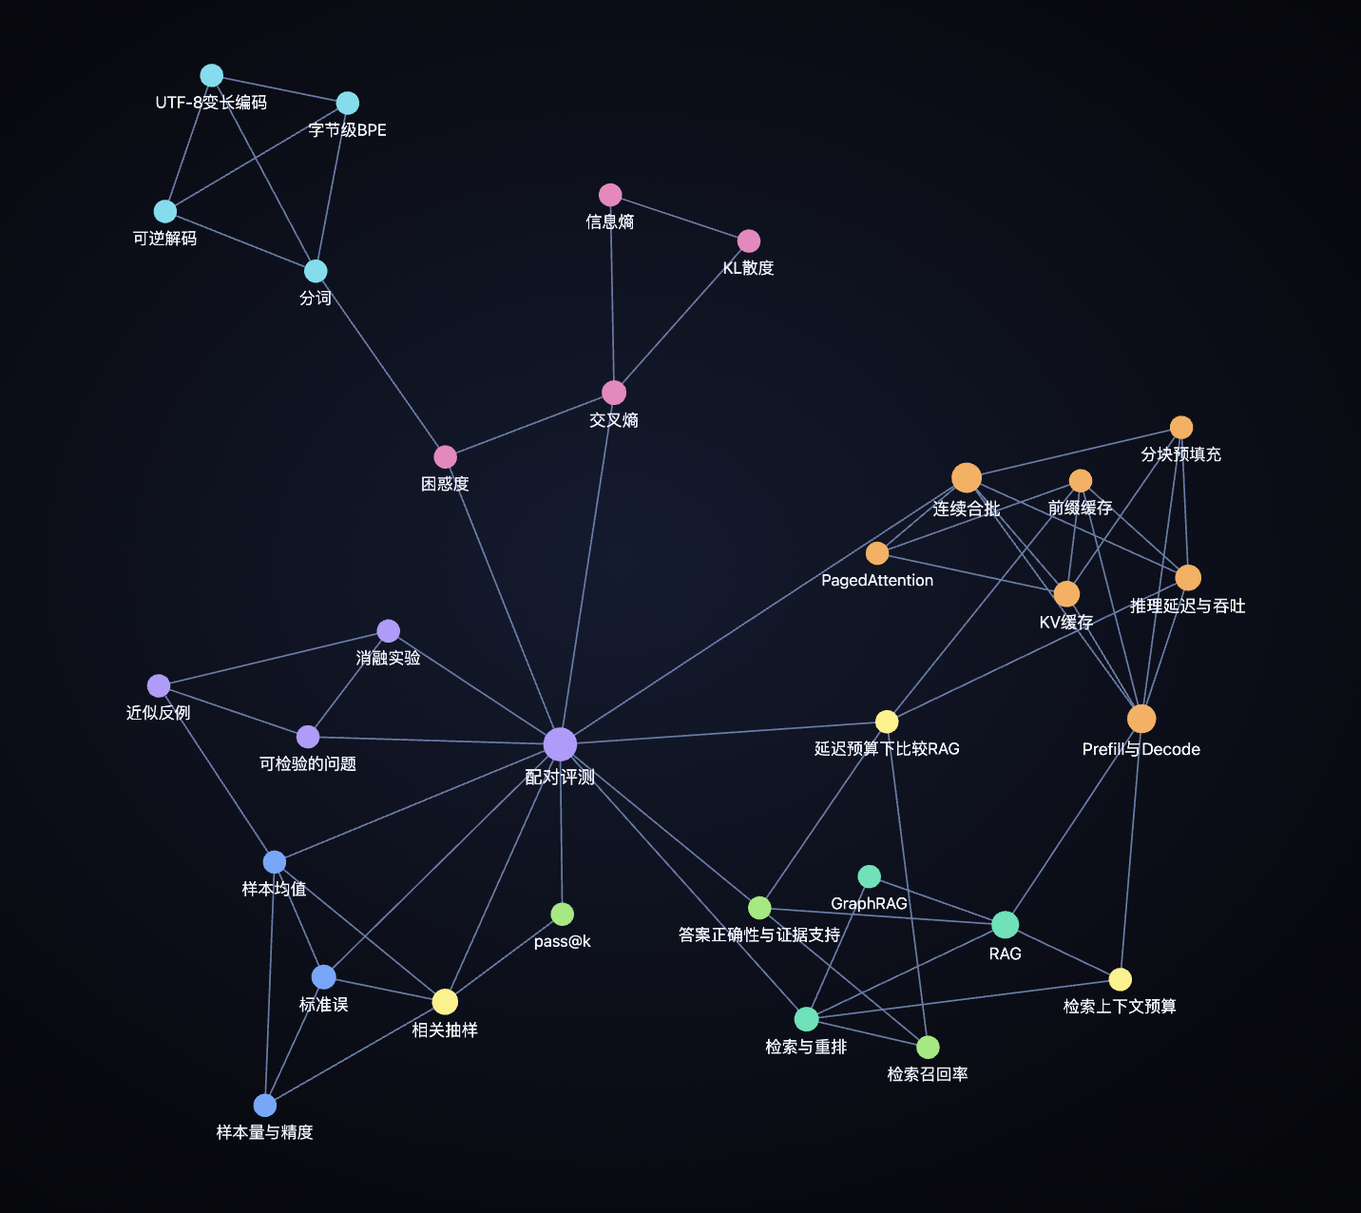
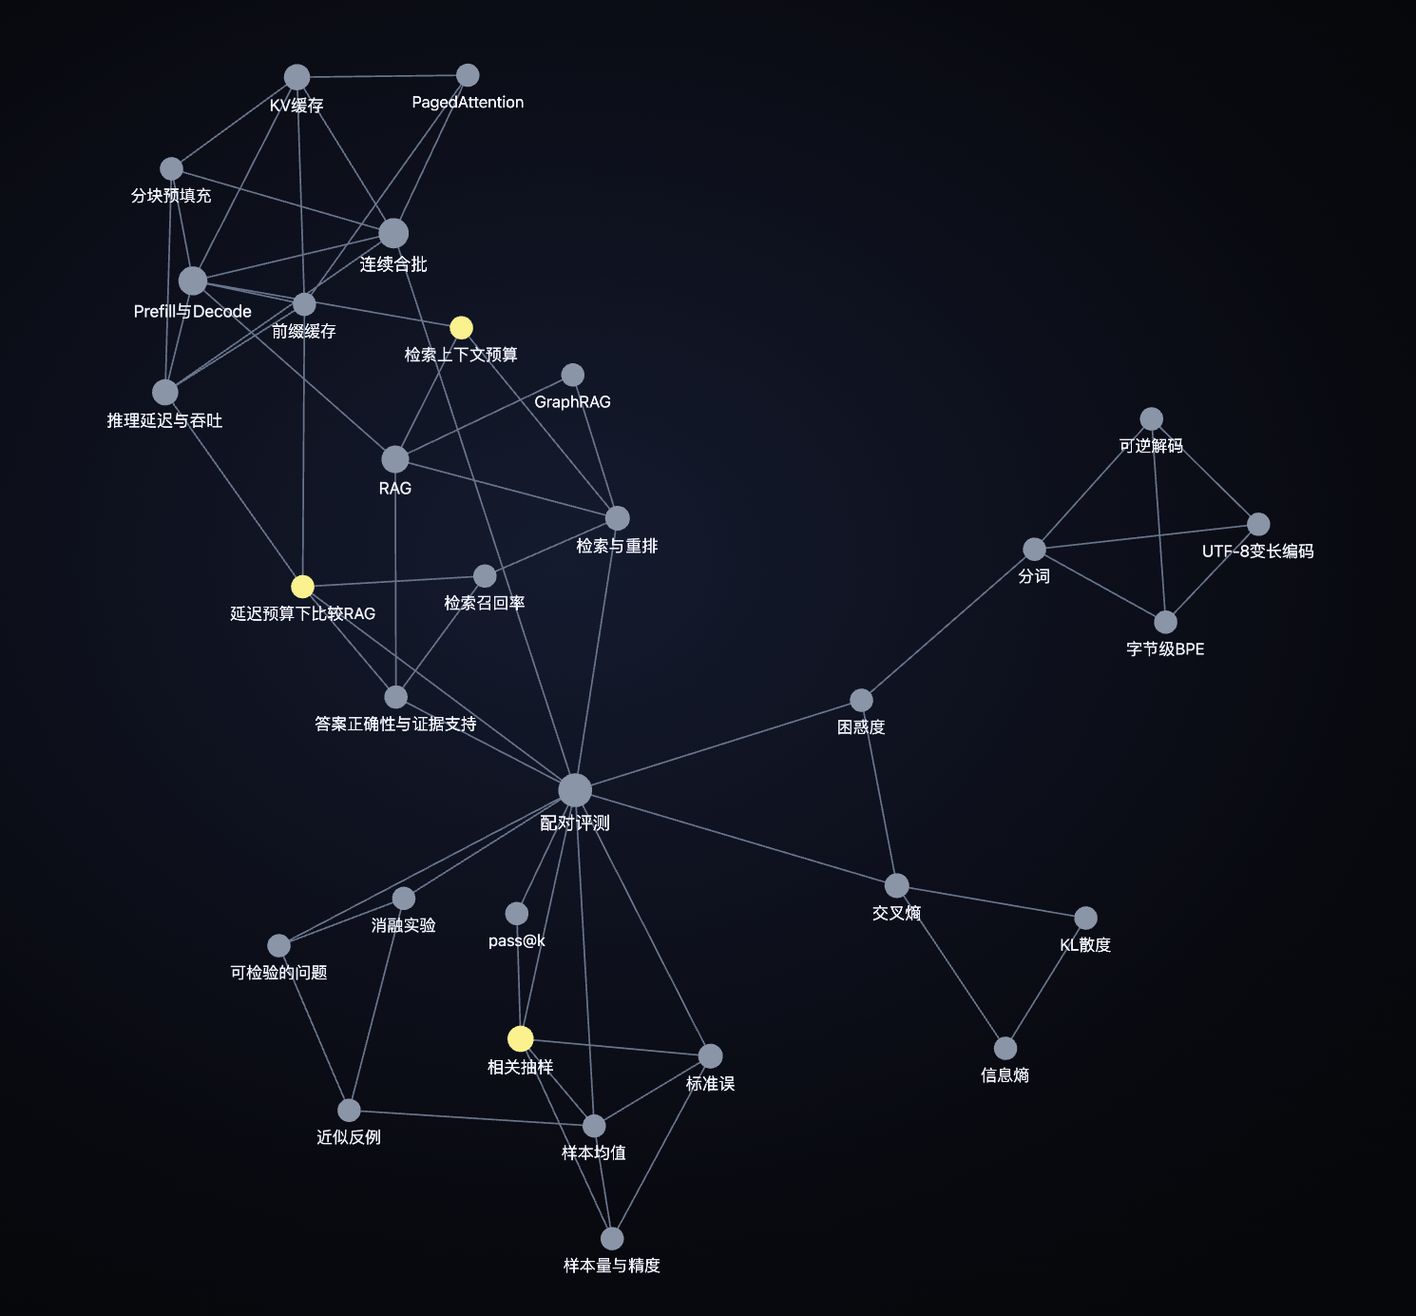
Simplify the README and fix first-use edge cases

diff --git a/assets/demo/obsidian-graph.css b/assets/demo/obsidian-graph.css
@@ -3,11 +3,11 @@
 }
 
 .graph-view.color-line {
-  color: #657daa;
+  color: #65758e;
 }
 
 .graph-view.color-fill-focused {
-  color: #fff098;
+  color: #d2dbe8;
 }
 
 .workspace-leaf-content[data-type="graph"] .view-content {

diff --git a/tools/test_workflow.py b/tools/test_workflow.py
@@ -105,6 +105,20 @@ class WorkflowTests(unittest.TestCase):
         self.assertTrue(any('Books/读书笔记.md' in e and 'source_url' in e for e in errors))
         self.assertTrue(any('Books/读书笔记.md' in e and 'evidence_status' in e for e in errors))
 
+    def test_dashes_inside_source_url_keep_following_properties(self):
+        self.add_book('---\ntype: book\nsource_url: https://example.org/a---b\nevidence_status: anchored\n---\n\n# 读书笔记\n')
+        self.assertEqual(workflow.check(self.root)['errors'], [])
+
+    def test_review_keeps_literal_template_tokens_in_card_text(self):
+        cards, _, _ = review.catalog(self.root)
+        question = '模板何时替换 __MATH_RENDERER__？'
+        card = dict(cards[0], front=question)
+        with review.connect(self.root) as db:
+            session, _ = review.make_session(db, [card], '2026-01-01')
+        output = self.root / 'view.html'
+        review.render(self.root, session, output)
+        self.assertTrue(question in output.read_text(encoding='utf-8'))
+
     def test_missing_and_ambiguous_note_links_are_reported(self):
         p = self.root / 'Concepts/数理基础/样本均值.md'
         p.write_text(p.read_text(encoding='utf-8') + '\n[[不存在]]\n', encoding='utf-8')

diff --git a/.flashcards/review.py b/.flashcards/review.py
@@ -423,11 +423,12 @@ def render(root, session, output, *, preview=False, standalone=True):
     root_id = "sb-flashcards-" + session["date"] + ("-revision" if preview else "")
     if session.get('workspace_id'):
         root_id += '-' + session['workspace_id'][:8]
-    result = template.replace("__ROOT_ID__", root_id).replace("__DECK_DATA__", data)
+    result = template.replace("__ROOT_ID__", root_id)
     if "__MATH_RENDERER__" in result:
         renderer = (root / ".flashcards/vendor/katex-0.19.1.min.js").read_text(encoding="utf-8")
         renderer = re.sub(r"</script", r"<\\/script", renderer, flags=re.I)
         result = result.replace("__MATH_RENDERER__", "<script>" + renderer + "</script>")
+    result = result.replace("__DECK_DATA__", data)
     if standalone:
         result = '<!doctype html><html lang="zh-CN"><head><meta charset="utf-8"><meta name="viewport" content="width=device-width,initial-scale=1"><title>' + html.escape(session['date']) + ' · My Second Brain 复习</title></head><body>' + result + '</body></html>'
     if len(result.encode()) >= 1_000_000:

diff --git a/tools/workflow.py b/tools/workflow.py
@@ -101,9 +101,10 @@ def prose(text):
 
 
 def fields(text):
-    if not text.startswith('---\n') or '\n---' not in text[4:]:
+    frontmatter = re.match(r'\A---[ \t]*\n(.*?)^---[ \t]*$', text, re.M | re.S)
+    if not frontmatter:
         return {}
-    header = text.split('---', 2)[1]
+    header = frontmatter[1]
     return {k: v.strip().strip('\"\'') for k, v in re.findall(r'^([\w_]+):[ \t]*([^\n]*)$', header, re.M)}
 
 

diff --git a/README.en.md b/README.en.md
@@ -2,53 +2,26 @@
 
 [简体中文](README.md) · English · [MIT](LICENSE)
 
-Use Obsidian for your notes and Codex to work through the material with you. When a video, an article, or a conversation explains the same idea, add it to the same Markdown note. As those notes build up, Codex can look for an assumption they share and suggest what to study next.
+Keep your notes in Obsidian and study with Codex. Add explanations from videos, papers, or conversations to the same concept note. Codex can follow the links between notes to suggest what to study next.
 
-## Try it with something of your own
+[First-use guide](Guides/First-Run.md) · [Browse the example notes](MOCs/知识库入口.md)
 
-On GitHub, choose **Code → Download ZIP**. Unzip it and open the same folder in Obsidian and Codex. Give Codex a transcript, an article, or a PDF, along with a question you want to answer.
+![Obsidian Graph view on a dark background. Blue-gray nodes are existing concepts. Pale gold nodes are AI study suggestions.](assets/demo/obsidian-graph.png)
 
-> Read AGENTS.md first. Help me understand [your question]. Put reusable explanations in concept notes and keep the sources. Add to existing notes when they already cover the idea. If you find a question worth studying next, show me which notes led you to it.
+Blue-gray is for existing concepts and pale gold is for AI study suggestions. [Comparing RAG under a latency budget](待学概念/模型评测/延迟预算下比较RAG.md) puts retrieval recall, answer quality, and wait time into one exercise. [Open the graph in Obsidian](Guides/Graph-View.md)
 
-You can also start with a short transcript and article included in the download and turn them into a review card. [First-use guide](Guides/First-Run.md)
+## Try it with your own material
 
-## Explore the graph in Obsidian
+On GitHub, choose **Code → Download ZIP**, then unzip it. Open the same folder in Obsidian and Codex. Give Codex a source and a question you want to answer.
 
-![Obsidian Graph view on a dark background. Seven topic groups have distinct colors, and three pale-gold study notes link to related concepts.](assets/demo/obsidian-graph.png)
+> Read AGENTS.md. Help me answer my question using this source. Add explanations I can reuse to the concept notes and keep the sources. Suggest a follow-up question if you find one worth studying.
 
-On the left, cyan marks text encoding and tokenization, pink information theory, purple research methods, and blue statistics. On the right, orange marks inference serving, teal retrieval, and light green model evaluation.
-
-Pale gold marks study topics the AI suggested from the existing notes. Each page gives you a problem to try.
-
-- [Correlated observations (相关抽样)](待学概念/数理基础/相关抽样.md) connects standard error, sample size, and paired evaluation. Would making a copy of every row give you a more precise estimate?
-- [Context budget for retrieval (检索上下文预算)](待学概念/智能体与检索/检索上下文预算.md) connects retrieval and reranking to the model's prefill stage, when it processes the input. How do you keep the conclusion, conditions, and exception when space is tight?
-- [Comparing RAG under a latency budget (延迟预算下比较RAG)](待学概念/模型评测/延迟预算下比较RAG.md) connects retrieval recall, evidence-backed answers, and serving latency. Which setup would you pick if 95% of requests must start streaming within 850 ms?
-
-To browse the graph yourself, open **Graph view** in the example vault. Hover over a node to see its links or click to read the note. [Graph view and colors](Guides/Graph-View.md)
-
-## From standard error to correlated observations
-
-A lesson transcript derives the variance of the mean of independent observations. An article explains why taking four times as many observations cuts the standard error of the mean in half. The derivation and the example go on one standard error page, with a link back to each source. Both materials are synthetic. [Video note](Videos/抽样次数与误差.md) · [Article note](Articles/重复抽样与标准误.md) · [Standard error](Concepts/数理基础/标准误.md)
-
-Both sources assume independent observations. Ask Codex what changes when that assumption fails. It can suggest a lesson on correlated observations. Try the opening question yourself. If you copy every row of your data once, does the standard error of the mean get smaller? [Study note](待学概念/数理基础/相关抽样.md)
-
-<details>
-<summary>Reveal the answer</summary>
-
-The sum and the number of rows both double, so the mean stays exactly the same. Its standard error across repeated samples stays the same too. Each copy is perfectly correlated with its original, so the formula for independent observations does not apply.
-
-</details>
-
-Ask Codex to change the example and wait for your reasoning. If you stop halfway through, leave the unresolved step on the study page. Once you understand it, link the concept back to standard error and make a review card. A question left during review can bring you back to the source note next time. [Walk through the example](MOCs/统计估计.md) · [Browse the other topics](MOCs/知识库入口.md)
+The sample [video](Videos/抽样次数与误差.md) and [article](Articles/重复抽样与标准误.md) contribute to the same [standard error note](Concepts/数理基础/标准误.md). Both are synthetic and assume independent observations. That assumption led Codex to suggest [correlated observations](待学概念/数理基础/相关抽样.md). If you duplicate every row in a dataset, does the mean's standard error shrink? Work it out, then have Codex help where you get stuck and make a review card. [Try the full example](Guides/First-Run.md)
 
 ## Use the tools you have
 
-The notes are local Markdown. You can edit them by hand or use another assistant with file access. The review tool needs Python 3.9 or later and writes an HTML page you can open offline. Use your own tools for subtitles, web pages, or PDFs, or supply the text directly. Ask Codex for a blank folder if you want to start fresh, or to add a source type or change the review intervals. The sample notes and card interface are in Chinese. You can ask the assistant to write new notes in your language. [Sources and tools](Guides/Sources-and-tools.md) · [Commands and settings](Guides/工具与扩展.md)
+The same questions kept turning up in papers, courses, and chats. I wanted one page I could come back to, with the sources still there. [Periodic review](Guides/Automation.md)
 
-I keep a personal vault for things I learn in different places, including conversations with ChatGPT and Codex. The same question keeps coming up in different sources. I gave each concept a page so I could add to it and pick up where I'd left off. I also review selected conversations periodically and look at what the notes still leave unexplained. Scheduled collection depends on which conversations your client can read and whether it can write to your local folder. [Periodic organization](Guides/Automation.md)
+The notes are local Markdown. Use your own editor, source reader, or AI assistant with file access. The review tool uses Python 3.9 or later to generate a page you can open offline. The sample notes and review interface are in Chinese. [Sources and tools](Guides/Sources-and-tools.md) · [Add sources or change review settings](Guides/工具与扩展.md)
 
-## Feedback and license
-
-If you find a broken link, an unclear step, or a source you'd like to use, open an issue and describe what you tried. A public or synthetic example is enough to reproduce a problem. If the workflow fits the way you learn, a Star on GitHub is welcome. [Issues](https://github.com/beetlespike/My-Second-Brain/issues)
-
-The project code, template, documentation, and examples are under the MIT License. Bundled components and materials you import retain their own licenses. Check note contents and attachments before sharing your own vault. [MIT License](LICENSE) · [Examples and third-party components](THIRD-PARTY.md)
+Code, templates, and examples are [MIT licensed](LICENSE). [Third-party components and imported material](THIRD-PARTY.md) have their own licenses. If you run into a problem, [open an issue](https://github.com/beetlespike/My-Second-Brain/issues) with a public or synthetic example.

diff --git a/README.md b/README.md
@@ -2,53 +2,26 @@
 
 简体中文 · [English](README.en.md) · [MIT](LICENSE)
 
-用 Obsidian 读写笔记，用 Codex 整理材料和带学。视频、文章、论文或对话里讲到同一个概念，可以补到同一篇 Markdown 笔记里。积累几篇后，Codex 可以沿着它们共用的前提，找出你接下来可以学的问题。
+用 Obsidian 管理笔记，用 Codex 整理材料和带学。视频、文章、论文或对话讲到同一个概念，就补进同一页。Codex 可以沿着这些笔记的联系，找出值得接着学的问题。
+
+[第一次使用](Guides/第一次使用.md) · [浏览示例笔记](MOCs/知识库入口.md)
+
+![黑底 Obsidian 关系图谱。灰蓝色是已有概念，淡金色是 AI 提出的待学建议。](assets/demo/obsidian-graph.png)
+
+灰蓝色是已有概念，淡金色是 AI 建议接着学的题。[延迟预算下比较 RAG](待学概念/模型评测/延迟预算下比较RAG.md)把检索召回、答案质量和等待时间放进同一道选型题。[在 Obsidian 打开图谱](Guides/Graph-View.md)
 
 ## 拿一份材料试试
 
-在 GitHub 点 **Code → Download ZIP**，解压后，用 Obsidian 和 Codex 打开同一个文件夹。把一段视频的字幕、一篇文章的正文或一份 PDF 交给 Codex，问一个你想弄懂的问题。
+在 GitHub 点 **Code → Download ZIP** 并解压。用 Obsidian 和 Codex 打开同一个文件夹，把材料和一个想弄懂的问题交给 Codex。
 
-> 请先读 AGENTS.md。我想弄懂这份材料里的……请把能复用的解释写进概念笔记，保留出处。遇到已有概念就补到原页。如果有一个问题值得接着学，也请指出它和哪些笔记有关。
+> 请读 AGENTS.md。用这份材料帮我理解这个问题，把能复用的解释补进概念页，留好出处。也看看有没有值得接着学的问题。
 
-手边没有合适材料，可以用一段字幕和一篇短文，从原文一路做到卡片。[第一次使用](Guides/第一次使用.md)
-
-## 在 Obsidian 看关系图谱
-
-![Obsidian 黑底关系图谱。七个主题各有一种颜色，三个淡金色节点连着相关的概念笔记。](assets/demo/obsidian-graph.png)
-
-左边的浅青、粉色、紫色和蓝色分别是文本编码与分词、信息论、研究方法和统计。右边的橙色是推理系统，青绿是检索，浅绿是模型评测。
-
-淡金色是 AI 从已有笔记里提出的待学建议。每页都有一道题可以试。
-
-- [相关抽样](待学概念/数理基础/相关抽样.md)连起标准误、样本量与精度、配对评测。把同一批数据复制一遍，估计会更准吗？
-- [检索上下文预算](待学概念/智能体与检索/检索上下文预算.md)把检索与重排接到模型处理输入的阶段（Prefill）。留给资料的空间有限，怎样保留结论、条件和例外？
-- [延迟预算下比较 RAG](待学概念/模型评测/延迟预算下比较RAG.md)连起检索召回率、答案正确性与证据支持、推理延迟。要让 95% 的请求在 850 毫秒内开始输出，该选哪套配置？
-
-在示例库左侧打开「查看关系图谱」。鼠标停在圆点上可以看相邻笔记，点进去就能读。[图谱与配色设置](Guides/Graph-View.md)
-
-## 从标准误学到相关抽样
-
-一段教学字幕说明怎样算一批独立观测的均值方差。一篇短文解释为什么样本量增至原来的四倍，样本均值的标准误会减半。推导和例子可以补进同一篇「标准误」，各自的出处也找得到。这里用的是合成材料。[视频笔记](Videos/抽样次数与误差.md) · [文章笔记](Articles/重复抽样与标准误.md) · [标准误](Concepts/数理基础/标准误.md)
-
-两份材料都用到了独立性。整理完以后，可以问 Codex：这一步如果不成立，会影响什么？「相关抽样」就是一个补学建议。先想一个例子：把数据表里的每条观测原样复制一遍，行数翻倍，样本均值的标准误会变小吗？[相关抽样待学页](待学概念/数理基础/相关抽样.md)
-
-<details>
-<summary>翻看答案</summary>
-
-每个数都出现两遍，和与行数同时翻倍，所以均值与原来完全相同。重复抽样时，这个均值的标准误也和原来一样。复制来的观测与原观测完全相关，独立样本的公式在这里不适用。
-
-</details>
-
-可以让 Codex 换一道题，等你说出理由再讲。如果学到一半，把还卡着的那一步留在待学页。理解后可以把笔记接回「标准误」，制成卡片。翻卡时留下的疑问，也可以在下一次学习时连同出处一起找回来。[读完这个例子](MOCs/统计估计.md) · [浏览其他主题](MOCs/知识库入口.md)
+示例里的[视频](Videos/抽样次数与误差.md)和[短文](Articles/重复抽样与标准误.md)是合成材料。它们都补进了[标准误](Concepts/数理基础/标准误.md)，也都假设观测独立。Codex 顺着这个条件提出了[相关抽样](待学概念/数理基础/相关抽样.md)。把数据表的每一行复制一次，均值的标准误会变小吗？先自己算，再请 Codex 讲卡住的那一步，做张复习卡。[从原文试到复习](Guides/第一次使用.md)
 
 ## 按自己的习惯用
 
-笔记是本地 Markdown。有文件权限的其他 AI 助手也可以用，或在编辑器里手动维护。复习工具需要 Python 3.9 或以上，在浏览器打开它生成的离线网页即可。字幕、网页和 PDF 可用现在手头的读取工具，也可以直接提供正文。需要空白目录、其他来源或不同复习间隔时，可以让 Codex 按指南调整。[来源与工具](Guides/来源与工具.md) · [本地命令和设置](Guides/工具与扩展.md)
+我常在论文、课程和对话里碰到同一个问题。我想下次回来时能接着学，所以把解释留在一页，分别记下出处。[定期整理](Guides/自动整理与维护.md)
 
-我用私人库整理从各处学到的东西，和 ChatGPT、Codex 的讨论是其中一部分。同一个问题往往会在不同地方遇到。我给每个概念留一篇能继续补充的笔记，回来时就能接着以前的理解往下学。我也会定期整理选定对话，回来看概念之间还缺什么解释。自动整理取决于客户端能读到哪些对话、能否写本地文件。[定期整理的方法](Guides/自动整理与维护.md)
+笔记是本地 Markdown，编辑器、AI 助手和材料读取工具都可以换。卡片用 Python 3.9 或更新版本生成，在浏览器里离线复习。[来源与工具](Guides/来源与工具.md) · [添加来源和调整复习](Guides/工具与扩展.md)
 
-## 反馈与许可
-
-试用时遇到断链、读不懂的一步，或希望支持新的来源，欢迎在 Issues 里写下你试过的步骤。用公开或合成材料复现即可。如果这个方法适合你，欢迎点 Star。[反馈入口](https://github.com/beetlespike/My-Second-Brain/issues)
-
-项目代码、模板、文档和示例采用 MIT。随附组件及你导入的材料适用各自的许可。分享自己的库时，也请检查笔记正文与附件。[MIT 许可证](LICENSE) · [示例与第三方组件](THIRD-PARTY.md)
+代码、模板和示例用 [MIT](LICENSE)。[第三方组件与导入材料](THIRD-PARTY.md)适用各自的许可。试用遇到问题，欢迎用公开或合成材料[提个 Issue](https://github.com/beetlespike/My-Second-Brain/issues)。

diff --git a/Guides/Graph-View.md b/Guides/Graph-View.md
@@ -2,24 +2,23 @@
 
 [English](#view-the-network-in-obsidian)
 
-用 Obsidian 打开含示例笔记的完整目录，在左侧选择「查看关系图谱」。点圆点可以读笔记。鼠标移到圆点上可以看它连着哪些笔记。
+用 Obsidian 打开完整的示例目录，选择左侧的「查看关系图谱」。点圆点读笔记，鼠标停在圆点上看连线。
 
-想复现预览的分组和黑底，可以在单独的示例库中使用配套文件。
+想用 README 里的黑底和两种节点颜色，可以在示例库里用配套设置。
 
-1. 在打开该库之前，把 `assets/demo/obsidian-graph.json` 复制到该库的 `.obsidian/graph.json`。如果已有图谱设置，先备份。
-2. 把 `assets/demo/obsidian-graph.css` 放到该库的 `.obsidian/snippets/`。打开 Obsidian，在「外观」选深色配色并启用此 CSS 片段。
-3. 打开关系图谱。各主题按概念目录着色。淡金色的圆点是带 `ai-suggested` 标签的待学页。
+1. 关闭示例库窗口。把 `assets/demo/obsidian-graph.json` 复制到 `.obsidian/graph.json`。目录可以手动建，已有设置先备份。
+2. 把 `assets/demo/obsidian-graph.css` 复制到 `.obsidian/snippets/`。重新打开库，在「外观」选深色并启用该 CSS 片段。
 
-例如，「延迟预算下比较 RAG」连着检索召回率、答案正确性和推理延迟。点进去可以先按等待上限选一套方案，再核对它放到真实流量里还缺什么数据。
+灰蓝色是已有的概念。淡金色是「待学概念」中带 `ai-suggested` 标签的笔记。可以从「延迟预算下比较 RAG」点进去，看看检索召回、答案质量和首段输出延迟如何影响选型。
 
 [Obsidian 关系图谱说明](https://obsidian.md/help/plugins/graph)
 
 ## View the network in Obsidian
 
-Open the full example folder as a vault and select **Open graph view**. Click a node to read the note. Hover to see its links.
+Open the full example folder as a vault and select **Open graph view**. Click a node to read the note, or hover to see its links.
 
-To reproduce the preview in a separate example vault, copy `assets/demo/obsidian-graph.json` to `.obsidian/graph.json` before opening the vault. Back up your graph settings if that file already exists. Put `assets/demo/obsidian-graph.css` in `.obsidian/snippets/`, then choose the dark appearance and enable the snippet. The groups follow the concept folders. Pale gold marks pending study notes tagged `ai-suggested`.
+To use the README's dark background and two node colors in the example vault, close its window and copy `assets/demo/obsidian-graph.json` to `.obsidian/graph.json`. Create the folder if needed and back up any existing graph settings. Copy `assets/demo/obsidian-graph.css` into `.obsidian/snippets/`. Reopen the vault, choose dark mode in Appearance, and enable the snippet.
 
-Try **Comparing RAG under a latency budget** (延迟预算下比较RAG). It connects retrieval recall, answer quality, and serving latency. Pick a setup that meets the latency limit, then check what you would still need to measure under real traffic.
+Blue-gray nodes are existing concepts. Pale gold marks study notes tagged `ai-suggested` in the `待学概念/` folder. Open **Comparing RAG under a latency budget** (延迟预算下比较RAG) to see how retrieval recall, answer quality, and wait time affect the choice of setup.
 
 [Obsidian Graph view help](https://obsidian.md/help/plugins/graph)
